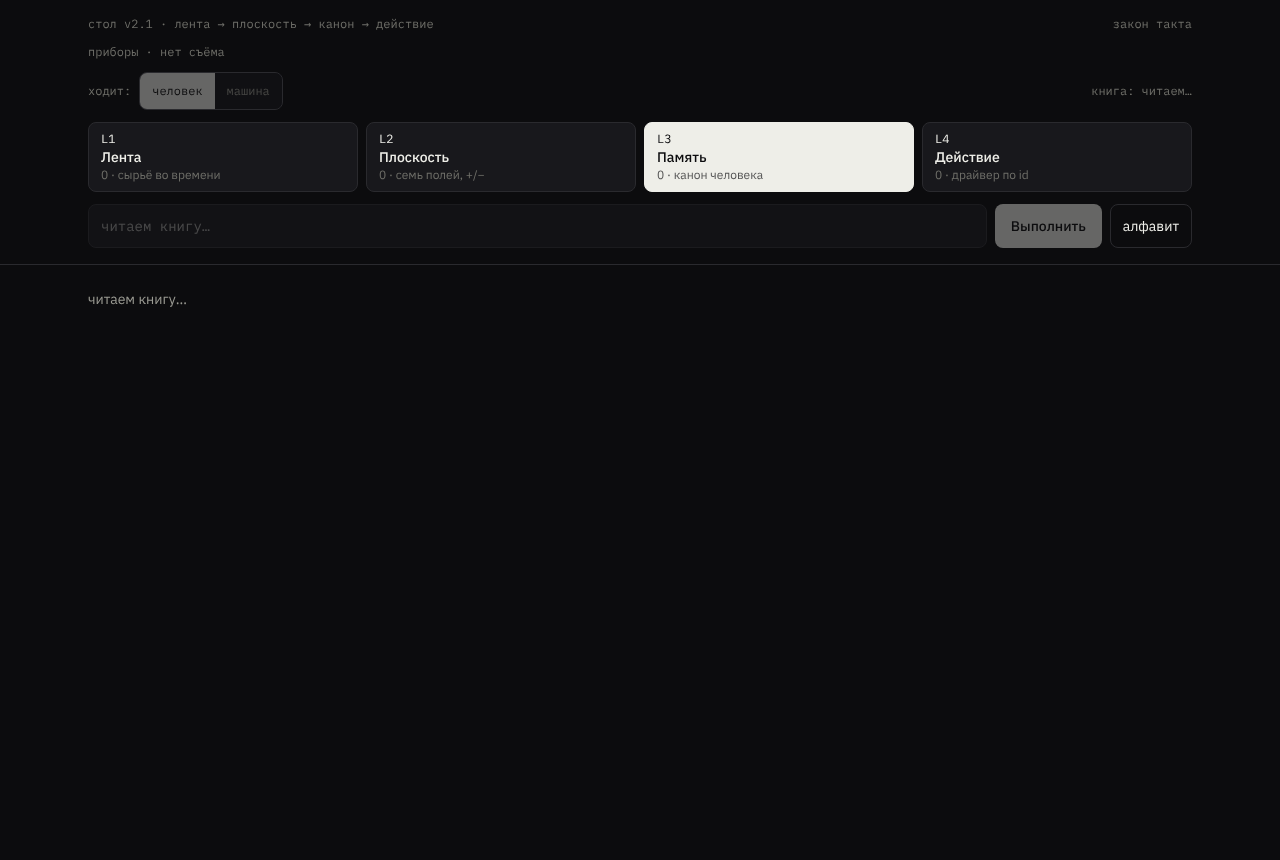
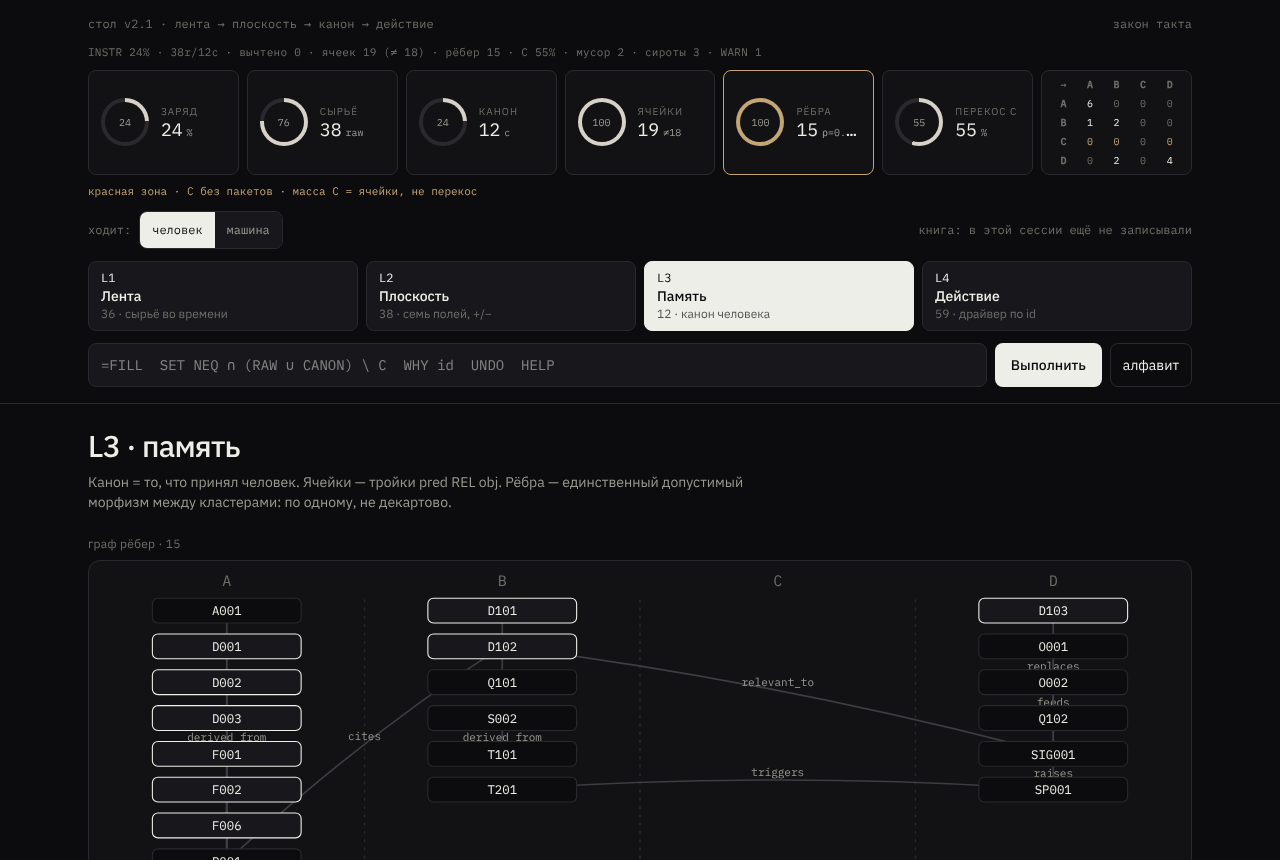
v2.1: посадка корпуса за 1,7 с вместо 35, правки документации по второму кругу
Движок: индекс id/hash на время посадки и уплотнение журнала один раз в
начале хода (раньше — линейный поиск на каждую запись и пересчёт журнала на
каждое событие, квадратично на 32 тыс. записей). Замер на корпусе 4,7 МБ:
нарезка 0,7 с, посадка в стол 1,7 с, FILL 0,03 с, UNDO 0,2 с.

Документация (12 находок): доля ячеек 2,5% от 32 035 секций везде одинаково;
74 хода «Да»/«Продолжение» в CORPUS/STAGE/AUDIT; честное время посадки в
STAGE; счётчики тестов; пачка на L2 — по одному ходу на id; идеи §5 V2.md
помечены сделанными (ACTOR, MERGE, DIFFBOOK, CHAIN), дорожная карта
обновлена; формулировка стадии техники для v2.1; `info`, не `Info`;
`layer:` читается фильтром; короткие блоки после секций — 71 из 331 ходы;
порядок строк в таблице худших ошибок; 48-битный хеш в заголовке plant.ts.

42 теста, typecheck, браузерный прогон dev без ошибок.

Claude-Session: https://claude.ai/code/session_012vXMXaPpZgH6QBStzdJLBs

diff --git a/src/engine/engine.ts b/src/engine/engine.ts
@@ -93,14 +93,13 @@ export class Desk {
     const ev: Event = { seq: ++this.seq, ts: nowIso(), actor: `${this.actor}:exec`, action, objectId, detail, move: this.move, ...extra };
     this.book.events.push(ev);
     this.writes++;
-    this.compact();
     return ev;
   }
 
   /**
    * Журнал не растёт бесконечно: старые события сворачиваются в счётчики глаголов.
-   * Не трогаются: seed, события текущего хода и последнего откатываемого хода —
-   * иначе UNDO большой посадки был бы частичным.
+   * Вызывается один раз в начале хода. Не трогаются: seed и события последнего
+   * откатываемого хода — иначе UNDO большой посадки был бы частичным.
    */
   private compact(): void {
     let over = this.book.events.length - MAX_EVENTS;
@@ -159,22 +158,31 @@ export class Desk {
     const collisions: string[] = [];
     const lines: string[] = [];
     const ts = nowIso();
+    // индексы на время посадки: 32 тыс. записей не должны стоить 32 тыс. линейных поисков каждая
+    const byId = new Map(this.book.objects.map((o) => [o.id, o]));
+    const byHash = new Map<string, Obj[]>();
+    for (const o of this.book.objects) if (o.hash) byHash.set(o.hash, [...(byHash.get(o.hash) ?? []), o]);
     for (const s of seedlings) {
-      const ex = this.get(s.id);
+      const ex = byId.get(s.id);
       let id = s.id;
       if (ex) {
         // тот же текст мог уже сесть под суффиксом: ищем по хешу во всей семье id
-        const same = ex.hash === s.hash || !ex.hash ? ex : this.book.objects.find((o) => o.hash === s.hash && o.id.startsWith(`${s.id}-`));
+        const same = ex.hash === s.hash || !ex.hash ? ex : (byHash.get(s.hash) ?? []).find((o) => o.id.startsWith(`${s.id}-`));
         if (same) {
           skipped.push(same.id);
           lines.push(`skip ${same.id} already ${same.type}/${same.status}`);
           continue;
         }
-        id = this.uniqueId(s.id);
+        let n = 2;
+        while (byId.has(`${s.id}-${n}`)) n++;
+        id = `${s.id}-${n}`;
         collisions.push(id);
       }
       const o = toObj({ ...s, id }, ts, `${this.actor}:plant`);
-      this.insert(o, "PLANT", `${s.why}: ${s.title}`.slice(0, 160));
+      byId.set(o.id, o);
+      byHash.set(o.hash!, [...(byHash.get(o.hash!) ?? []), o]);
+      this.book.objects.push(o);
+      this.log("PLANT", o.id, `${s.why}: ${s.title}`.slice(0, 160), { before: null });
       if (s.turn !== undefined || source) {
         this.book.origins.push({ objectId: o.id, sessionId: source ?? "tape", span: s.turn !== undefined ? `turn ${s.turn}` : s.why });
       }
@@ -395,7 +403,11 @@ export class Desk {
 
   exec(line: string): ExecResult {
     const top = this.depth === 0;
-    if (top) this.move++;
+    if (top) {
+      // уплотнение — один раз на ход, до него: события самого хода никогда не режутся
+      this.compact();
+      this.move++;
+    }
     const writesBefore = this.writes;
     this.depth++;
     try {

diff --git a/src/engine/plant.ts b/src/engine/plant.ts
@@ -8,7 +8,7 @@
  *  - режим секций: `# N. Заголовок` открывает секцию до следующего заголовка,
  *    id = S{N}; в режиме абзацев ярлык «Например:» + кодовый блок — один блок;
  *  - кодовый блок не рвётся по пустой строке; однострочный ``` … ``` закрыт сам;
- *  - id = префикс типа + 52-битный хеш нормализованного текста (идемпотентно).
+ *  - id = префикс типа + 48-битный хеш нормализованного текста (идемпотентно).
  */
 import { flattenCellBlock, isLabel, JUNK_TITLE, parseCell } from "./cells.ts";
 import { fnv1a, normalizeForHash } from "./hash.ts";

diff --git a/src/engine/engine.test.ts b/src/engine/engine.test.ts
@@ -289,7 +289,8 @@ test("формулы, SPEC, JSON, HELP, журнал уплотняется", ()
     d.exec("WIRE D001 F003 cites");
     d.exec("UNWIRE D001 F003 cites");
   }
-  assert.ok(d.book.events.length <= 5000);
+  d.exec("STATUS"); // уплотнение — в начале следующего хода
+  assert.ok(d.book.events.length <= 5001, `events=${d.book.events.length}`);
   assert.ok((d.book.compacted?.WIRE ?? 0) > 0);
   assert.equal(d.book.events[0].action, "seed");
 });

diff --git a/docs/STAGE.md b/docs/STAGE.md
@@ -11,12 +11,12 @@
 только человек, и машина, которая ходит по id.
 
 **Стадия: сформулирована и впервые проверена на собственном корпусе.**
-Корпус — один диалог на 344 тыс. строк, где 70 из 81 хода пользователя —
-«Да» или «Продолжение». Это наглядный аргумент: лента кормит сама себя.
+Корпус — один диалог на 344 тыс. строк, где 74 из 81 хода пользователя —
+«Да», «Продолжение» и их варианты. Это наглядный аргумент: лента кормит сама себя.
 В v2.1 корпус прогнан через стол целиком (`docs/CORPUS.md`): 95% текста
-лежит в блок-цитатах, 30 563 нумерованные секции, из них 803 с ячейкой в
+лежит в блок-цитатах, 32 035 нумерованных секций, из них 803 с ячейкой в
 заголовке. То есть идея «ячейка ≠ как первичная грамматика» на своём же
-корпусе даёт 2,6% записей; остальное — обычные наблюдения, код и ярлыки.
+корпусе даёт 2,5% секций; остальное — обычные наблюдения, код и ярлыки.
 Эксперимент один, автор один, разметка — модели, не люди.
 
 **Ближайшие аналоги** (идея не изолирована, но комбинация своя):
@@ -43,7 +43,7 @@
 | Метод | Стадия | Замечание |
 |---|---|---|
 | Нарезка ленты + эвристический классификатор | измерен | v1: по пустым строкам, 7 правил, без оценки; v2.1: цитаты, секции, ярлык+блок, классы code/label; точность типа на 200 абзацах с разметкой трёх судей-моделей: 0,30 → 0,78 (0,94 на единогласных); ячейки: точность 1,0 → 0,83, полнота 0,5 → 0,63 (`docs/CORPUS.md`) |
-| Ячейка `pred ≠ obj` из заголовка | рабочий, узкий | в v2.1 `≠ → ⊂ = vs`; на корпусе 2,6% секций несут ячейку в заголовке — грамматика покрывает малую часть материала |
+| Ячейка `pred ≠ obj` из заголовка | рабочий, узкий | в v2.1 `≠ → ⊂ = vs`; на корпусе 2,5% секций несут ячейку в заголовке — грамматика покрывает малую часть материала |
 | Алгебра множеств над id | рабочий | в v1 один оператор; в v2.1 полное выражение со скобками, фильтры, `turn:n`; семантика `NEQ`/`JUNK` возвращена к v1 после ревью |
 | Приборы (заряд, перекос, рёбра, мусор) | эвристики | пороги те же, что в v1, но как данные; вычтенные строки исключены из массы |
 | GAP → SETTLE → GAP | рабочий | замкнутый контур; в v2.1 закрытый GAP снова открывается, если правило ожило |
@@ -64,7 +64,9 @@
   понятно интуитивно, но что такое кластер формально (A/B/C/D — проекты? слои?
   роли?) не сказано нигде.
 - «ступень = закон» (THEORY.md упоминается в архиве, в репозитории его нет).
-- Слой 1 / слой 2 (`layer`) заведён в схеме, но ни один глагол его не читает.
+- Слой 1 / слой 2 (`layer`) заведён в схеме, но смысла ему не назначено: его
+  читает только фильтр множеств `layer:1`, ни одно правило приборов или NEXT
+  на него не смотрит.
 
 **Что нужно для перехода:** одностраничная формальная модель — типы, статусы,
 допустимые переходы статусов (кто может: человек/машина), инварианты (session
@@ -73,21 +75,23 @@
 
 ## 4. Техническая разработка
 
-**Стадия: лабораторный прототип (TRL 3–4 по аналогии).** Работает только в
-той песочнице, где был собран; собирается с ошибками; тестов нет.
+**Стадия: лабораторный прототип (TRL 3–4 по аналогии).** В v1 он работал
+только в той песочнице, где был собран, собирался с ошибками и не имел
+тестов; в v2.1 это переносимый прототип с тестами и встречным ревью, но всё
+ещё одиночный стол без второго пользователя и второго корпуса.
 
 | Критерий | v1 | v2.1 (эта ветка) |
 |---|---|---|
 | Запускается вне песочницы Grok | нет | да (браузер, IndexedDB; SSR на Vercel) |
 | `npm ci` / typecheck / build | красные | зелёные |
-| Тесты | 0 | 24 сценария движка + 13 хранилища, включая баги v1 и находки ревью |
+| Тесты | 0 | 29 сценариев движка + 13 хранилища, включая баги v1 и находки двух кругов ревью |
 | Источников истины | 3 (sqlite, zustand-rows, zustand-plane) | 1 (Book в движке) |
 | Откат | REPAIR по эвристике | UNDO ходом + REPAIR id |
 | Правила хода | константы | правила над формой |
 | Импорт | нет | нормализация любого входа, предупреждения, слияние |
-| Корпус 4,7 МБ | не сажался (абзацы по 140 КБ) | 32 891 запись за ~0,7 с; ~630 ячеек внутри тел секций пока не всплывают в заголовки |
+| Корпус 4,7 МБ | не сажался (абзацы по 140 КБ) | 32 891 запись: нарезка 0,7 с, посадка в стол 1,7 с, FILL 0,03 с, UNDO 0,2 с (Node 22; до правки индекса посадка шла 35 с); ~630 ячеек внутри тел секций пока не всплывают в заголовки |
 | Встречное ревью | нет | 75 находок, исправлены; аудит сам прошёл errata |
-| Документация | `Info` | README + AUDIT (с errata) + STAGE + V2 + PROTOCOL + CORPUS |
+| Документация | `info` | README + AUDIT (с errata) + STAGE + V2 + PROTOCOL + CORPUS |
 
 **Что отделяет от «альфы»:** несколько пользователей на одном столе (нужен
 сервер и аккаунты — §0.5 AGENTS.md это допускает по явному запросу),
@@ -97,7 +101,7 @@
 ## 5. Одной строкой
 
 Идея — зрелая гипотеза, впервые измеренная на собственном корпусе и давшая
-скромную цифру (ячейки — 2,6% секций); методы — рабочие эвристики с
+скромную цифру (ячейки — 2,5% секций); методы — рабочие эвристики с
 измеренной точностью; концепция — манифест, у которого в v2.1 появился
 исполняемый контракт (статусы, роли, множества, нормализация), но не
 формальная модель; техника — прототип, который в v1 нельзя было запустить

diff --git a/docs/V2.md b/docs/V2.md
@@ -54,12 +54,12 @@
 | WHY | нет | объяснение любой строки: ячейка, рёбра, происхождение, журнал |
 | Граф рёбер | таблица from/rel/to | SVG: кластеры-колонки, подсветка соседей, клик → WHY |
 | WIRE из UI | только строкой | форма с автодополнением id + PROBE-кандидаты в один клик |
-| Пачка | строка BATCH | чекбоксы в таблице → BATCH ACCEPT/TAKE |
+| Пачка | строка BATCH | чекбоксы в таблице → ACCEPT/TAKE по одному ходу на id (каждый виден в журнале и откатывается отдельно) |
 | Матрица L2 | тип × кластер | статус × кластер, клик режет срез |
 | Протокол агента | устно в CHAT-CRUTCH.md | блок на L4 + `docs/PROTOCOL.md` + `JSON`-снимок |
 | Перенос | sqlite-файл | экспорт JSON и TSV; импорт JSON (замена или слияние), TSV — через посадку |
 | Деплой | только песочница Grok | SSR на Vercel (Nitro), без python и путей песочницы; данные целиком в браузере |
-| Тесты | 0 | 10 сценариев движка, включая воспроизведение багов v1 |
+| Тесты | 0 | 29 сценариев движка + 13 хранилища, включая воспроизведение багов v1 и находок двух кругов ревью |
 | «Четыре такта» | мёртвый код | маршрут `/cycle` |
 
 ## 3. Плюсы и минусы v2 (честно)
@@ -110,22 +110,19 @@ D = foresight (наблюдения/сигналы). То есть не одна
 же, как «принять нужное». Возможно, это и задумано (ёмкость чистится), но
 стоит назвать явно или считать `canon/(raw+canon+rejected)`.
 
-## 5. Новые идеи (не реализованы, предлагаю)
+## 5. Новые идеи (статус на v2.1 помечен)
 
-1. **Права по ролям в журнале.** `owner` уже есть у объектов и `actor` у
-   событий. Правило «machine не делает canon» + отчёт «сколько раз модель
-   пыталась» — это и есть измеримый эффект стола.
-2. **Два стола — один протокол.** Агент A получает `JSON`-снимок, делает
-   PLANT/PROBE/GAP, отдаёт `JSON`; агент B продолжает. Нужен один
-   дополнительный глагол `MERGE` (по хеш-id он тривиален: одинаковые абзацы
-   совпадут сами).
-3. **Диф двух книг.** `DIFF book1 book2` → что принято/вычтено/добавлено —
-   основа для ревью канона вторым человеком.
+1. **Права по ролям в журнале.** *(сделано в v2.1: `ACTOR`, отказ в журнале)*
+   Правило «machine не делает canon» + отчёт «сколько раз модель пыталась»
+   (SPEC считает `REFUSE`) — это и есть измеримый эффект стола.
+2. **Два стола — один протокол.** *(сделано в v2.1: `MERGE`, по хеш-id
+   одинаковые абзацы совпадают сами; чужая история без номеров ходов)*
+3. **Диф двух книг.** *(сделано в v2.1: `DIFFBOOK`, предпросмотр перед
+   слиянием на L4)* — основа для ревью канона вторым человеком.
 4. **Шкала уверенности классификатора.** Выдавать не только «почему», но и
    «насколько»; всё ниже порога — в отдельный срез «спорная посадка».
-5. **Ячейка с направлением.** `→` уже есть; следующий шаг — `WIRE` сам
-   предлагает ребро, если `obj` одной ячейки совпадает с `pred` другой
-   (цепочки A ≠ B, B → C).
+5. **Ячейка с направлением.** *(сделано в v2.1: `CHAIN` предлагает ребро,
+   если `obj` одной ячейки совпадает с `pred` другой)*
 6. **Таймлайн канона.** События имеют `ts`; срез «что было каноном на дату»
    даёт честный ответ на «учти прошлую сессию» без контекста модели.
 7. **MCP-инструмент.** Алфавит — готовая поверхность для любого агента: один
@@ -134,10 +131,11 @@ D = foresight (наблюдения/сигналы). То есть не одна
 
 ## 6. Дорожная карта
 
-- **v2.1** (неделя): права по ролям; `MERGE`; IndexedDB вместо localStorage;
-  размеченный набор для классификатора и его точность в README.
+- **v2.1** (сделано): роли, `MERGE`/`DIFFBOOK`, `CHAIN`, IndexedDB,
+  размеченный набор и точность классификатора (`docs/CORPUS.md`).
 - **v2.2**: общий стол (auth ON по §0.5: аккаунты, `authMiddleware`, Postgres);
-  `DIFF` книг; таймлайн канона.
+  таймлайн канона; ячейки из тел секций в заголовки; правила из CORPUS.md §4
+  (однострочный блок прозы — не код, «не обязательно» — не решение).
 - **v3**: MCP-сервер над движком; второй корпус от другого автора; замер
   «доля Да-ходов до/после».
 
@@ -226,3 +224,10 @@ SPA» было неправдой — это SSR-приложение на Nitro
   закрыты сами; id из TSV, совпадающий с именем множества, получает `-id`;
   вычтенное липкое при слиянии (поднимает только канон); рёбра к вычтенному
   не считаются живыми; `and-1` — это id, а не оператор.
+- **Производительность посадки.** Документ обещал «0,7 с» на корпус, но это
+  было время нарезки; сам стол сажал 32 891 запись 35 с (линейный поиск id на
+  каждую запись и пересчёт уплотнения на каждое событие). Теперь индекс на
+  время посадки и уплотнение один раз в начале хода: 1,7 с.
+- **Документация.** 12 расхождений цифр и устаревших строк (доля ячеек 2,5%,
+  74 хода «Да», счётчики тестов, «идеи не реализованы» про уже сделанное,
+  `layer:` читается фильтром) — поправлены.

diff --git a/docs/CORPUS.md b/docs/CORPUS.md
@@ -20,8 +20,8 @@ node --experimental-strip-types scripts/corpus-stats.mjs docs/corpus/sample.json
 
 `attachments/ChatGPT_2026_09_18__1900.md` — экспорт одного диалога с ChatGPT:
 4 747 159 байт, 344 396 строк, 81 ход пользователя и 81 ответ (162 маркера
-`# you asked` / `# chatgpt response`). 70 ходов пользователя — «Да» (51) или
-«Продолжение» (16) и их варианты. 94,9 % строк (326 761 из 344 396) начинаются с `>`: экспорт
+`# you asked` / `# chatgpt response`). 74 хода пользователя — «Да» (51),
+«Продолжение» (16) и их варианты (7). 94,9 % строк (326 761 из 344 396) начинаются с `>`: экспорт
 обернул весь текст в блок-цитаты, и нарезчик v2.0 этого не понимал. Внутри —
 «Innovation OS»: 32 035 нумерованных заголовков `# N. Заголовок`, 29 472
 различных номера (2 563 номера повторяются с другим содержанием).
@@ -55,8 +55,10 @@ node --experimental-strip-types scripts/corpus-stats.mjs docs/corpus/sample.json
 - **Снятие `>`** — главный выигрыш: без него весь диалог был 4 965 кусков с
   p99 в 36 тыс. символов, то есть целые ответы модели как один «абзац».
 - **Режим секций** — блок = заголовок + тело до следующего заголовка. Коротких
-  обрывков 331 вместо 27 222, и почти все они — ходы «Да»/«Продолжение» (51 +
-  16), а не ярлыки «Например:». Цена: p99 длины вырос до 504 и max до 2 763,
+  обрывков 331 вместо 27 222: 71 из них — ходы «Да»/«Продолжение», остальные
+  260 — заголовки без номера и обрывки (`### Где это уже есть`, «Получается:»),
+  которые режим секций не прикрепил ни к одной секции; ярлыков «Например:»
+  среди них почти нет. Цена: p99 длины вырос до 504 и max до 2 763,
   и ячейки внутри тела секции с «настоящим» заголовком не всплывают в
   заголовок записи — поэтому ячеек 803 против 1 434 в режиме абзацев.
   Разница (~630) — ячейки, которые лежат в теле и ждут `FILL`/`WHY`, а не
@@ -131,8 +133,8 @@ references: …», «Проверить: …») и говорит «секция
 | 1 | 44 | ```` ```text Hypothesis: Flat optical fiber can detect localized pressure under bending. ``` ```` | observation → code («кодовый блок») | Кодовый блок из **одной строки прозы** (≥ 3 слов, есть буквы, нет `;{}()=<>[]`) — не код, а observation с этой строкой в заголовке. По корпусу (режим абзацев) из 3 556 блоков-в-ограде таких 800 однострочных и ещё 121 многострочных из одних прозаических строк; «кодом» выглядят 2 540. |
 | 2 | 48 | ```` ```text system can independently assemble candidate transition plans. ``` ```` | observation → code | То же правило №1. |
 | 3 | 84 | ```` ```text We lack reliable benchmark for AI browser agents. ``` ```` | observation → code | То же правило №1. |
-| 4 | 63 | ```` ```text small projects wait much longer. ``` ```` | observation → code | То же правило №1. |
-| 5 | 29 | «Не обязательно календарно, но useful sequence.» | observation → decision («маркер решения») | Маркер решения `обязательно/необходимо` не должен срабатывать под отрицанием: `не обязательно`, `не необходимо`. По корпусу 71 блок получил decision именно через «не обязательно» («Не обязательно выбирать победителя.»). |
+| 4 | 29 | «Не обязательно календарно, но useful sequence.» | observation → decision («маркер решения») | Маркер решения `обязательно/необходимо` не должен срабатывать под отрицанием: `не обязательно`, `не необходимо`. По корпусу 71 блок получил decision именно через «не обязательно» («Не обязательно выбирать победителя.»). |
+| 5 | 63 | ```` ```text small projects wait much longer. ``` ```` | observation → code | То же правило №1. |
 | 6 | 173 | `# 20057. Case 12` (тело: «Repeated adapters between same schemas.») | label → observation («секция») | Заголовок секции, подходящий под `JUNK_TITLE` или шаблон `Case N` / `Another` / `Example` / `Пример` / `Или:` — не заголовок записи: брать title из первой строки тела (как уже делается для ячейки в теле); если тела нет — label. По корпусу 2 152 секции с таким заголовком и 8 245 заголовков, оканчивающихся на `:`. |
 | 7 | 188 | `# 1189. Example` (тело: «Есть два providers.») | label → observation | То же правило №6. |
 | 8 | 92 | `# **Capability Capital, Ecosystem Learning & Technological Development Accounting v0.1**` | label → observation («абзац») | Ненумерованный заголовок, целиком в `**…**`, без тела — заголовок документа: снимать `**` в title и считать label (или `artifact`, если дальше идёт оглавление). |
@@ -153,7 +155,7 @@ therefore specialized capability matching.` (`… ⊂ …`). Это ячейки
 
 - Идея «лента → адресуемые записи» теперь **проверена на собственном корпусе
   инструментально**, а не на глаз: 344 тыс. строк → 32 965 секций с
-  устойчивыми id, 803 ячейки на уровне заголовков (2,4 % секций) и ещё ~630 в
+  устойчивыми id, 803 ячейки на уровне заголовков (2,5 % от 32 035 секций, 2,4 % от 32 965 блоков) и ещё ~630 в
   телах; `≠` остаётся главным отношением (567 из 803), что подтверждает ставку
   v1 на различение как первичную грамматику.
 - Классификатор поднялся с 0,30 до 0,78 по типу (0,94 на единогласных

diff --git a/docs/AUDIT.md b/docs/AUDIT.md
@@ -15,7 +15,7 @@
 ленту. Язык управления — алфавит глаголов (`PLANT ACCEPT TAKE SET NEQ FILL
 SWEEP GAP SETTLE WIRE PORT SPEC …`) с алгеброй множеств над id и «ячейками»
 вида `pred ≠ obj`. Источник сырья — диалог ChatGPT на 344 тыс. строк
-(81 ход, из них ~70 — «Да» / «Продолжение») про Enbek.kz и «Innovation OS».
+(81 ход, из них 74 — «Да» / «Продолжение» и их варианты) про Enbek.kz и «Innovation OS».
 
 ## 1. Сводка
 
